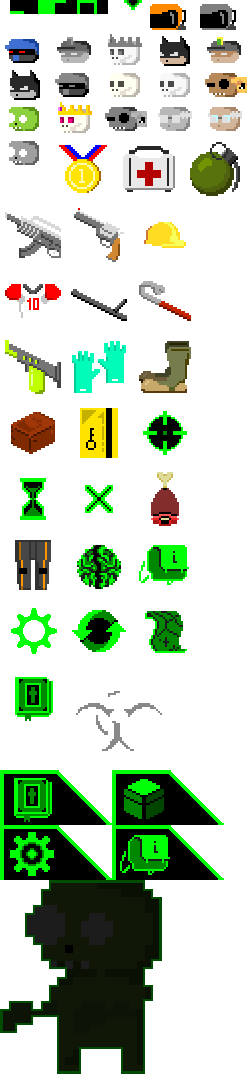
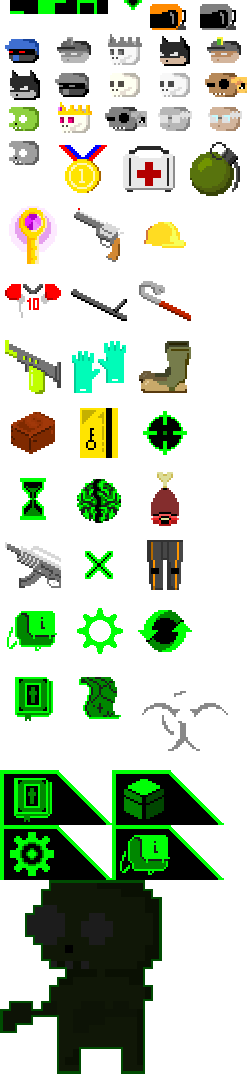
wand and magic fire

diff --git a/server/items/Item.cpp b/server/items/Item.cpp
@@ -657,6 +657,35 @@ Item* Item::create(Type type, AccessLevel accessLevel, unsigned int id)
             };
 
             break;
+
+        case Type::Wand:
+
+            i = new Item();
+            i->schema.CategoryBase = ItemCategory::Base::BaseWeapon;
+            i->schema.CategoryWeapon = ItemCategory::Weapon::WeaponRanged;
+            i->schema.weight = 2;
+            i->schema.minimumDamage = 4;
+            i->schema.maximumDamage = 8;
+            i->schema.effectiveRangeInTiles = 5;
+            i->onUse = [i](Character* user) -> void
+            {
+                // Visualize
+                i->visualizeMagicFire(user);
+
+                // Event
+                Item* ix = i;
+                user->level->sendEventToAllPlayers([ix, user](bit::ServerPacket &packet) {
+                    packet << sf::Uint32(ServerEvent::MagicFire);
+                    packet << user->Body::schema.x;
+                    packet << user->Body::schema.y;
+                    packet << sf::Uint32(ix->schema.type);
+                });
+            };
+            i->onAttack = [i](Character* user, Character* enemy) -> void
+            {
+            };
+
+            break;
     }
 
     i->schema.id = id;
@@ -720,6 +749,9 @@ std::string Item::getTitle(Type type)
 
         case Type::Biosprayer:
             return "Biosprayer";
+
+        case Type::Wand:
+            return "Wand";
     }
 }
 
@@ -779,6 +811,9 @@ std::string Item::getDescription(Type type)
 
         case Type::Biosprayer:
             return "Toxifies enemies";
+
+        case Type::Wand:
+            return "Hades shall prevail";
     }
 }
 
@@ -825,6 +860,9 @@ std::string Item::getSpriteName(Type type)
 
         case Type::Biosprayer:
             return "Biosprayer";
+
+        case Type::Wand:
+            return "Wand";
     }
 }
 
@@ -880,6 +918,9 @@ std::string Item::getIconName(Type type)
 
         case Type::Biosprayer:
             return "Biosprayer";
+
+        case Type::Wand:
+            return "Wand";
     }
 }
 
@@ -890,4 +931,13 @@ void Item::visualizeWeaponFire(Character* user)
     sf::Color e = sf::Color::Black;
     user->level->createLightFlare(user->Body::schema.x, user->Body::schema.y, 0.5f, s, e, 2, 2, 1, 0);
 }
+
+void Item::visualizeMagicFire(Character* user)
+{
+    // Firing flare
+    sf::Color s = sf::Color::Magenta;;
+    sf::Color e = sf::Color::Black;
+    user->level->createLightFlare(user->Body::schema.x, user->Body::schema.y, 0.5f, s, e, 2, 2, 1, 0);
+}
+
 

diff --git a/client/StateGamePlay.cpp b/client/StateGamePlay.cpp
@@ -48,6 +48,7 @@ StateGamePlay::StateGamePlay(bit::StateStack &stack, RogueZombieGame* _game, boo
     explosionSoundId = rogueZombieGame->soundManager->loadSound(resourcePath() + "bit_explosion01.ogg");
     pistolGunshotSoundId = rogueZombieGame->soundManager->loadSound(resourcePath() + "bit_pistol_01.ogg");
     rifleGunshotSoundId = rogueZombieGame->soundManager->loadSound(resourcePath() + "bit_rifle_01.ogg");
+    magicCastSoundId = rogueZombieGame->soundManager->loadSound(resourcePath() + "bit_magiccast_01.ogg");
     doorCloseSoundId = rogueZombieGame->soundManager->loadSound(resourcePath() + "bit_click_01.ogg");
     openBodySoundId = rogueZombieGame->soundManager->loadSound(resourcePath() + "bit_guts_01.ogg");
     closeBodySoundId = rogueZombieGame->soundManager->loadSound(resourcePath() + "bit_guts_02.ogg");
@@ -1391,6 +1392,22 @@ void StateGamePlay::handlePacket_ServerEvent(bit::ServerPacket &packet)
                         break;
                     default:
                         rogueZombieGame->soundManager->play(pistolGunshotSoundId);
+                        break;
+                }
+                break;
+            }
+
+            case ServerEvent::MagicFire:
+            {
+                float posX, posY;
+                Item::Type type;
+                packet >> posX;
+                packet >> posY;
+                bit::NetworkHelper::unpackEnum<sf::Uint32, Item::Type>(packet, type);
+                switch (type)
+                {
+                    default:
+                        rogueZombieGame->soundManager->play(magicCastSoundId);
                         break;
                 }
                 break;

diff --git a/server/items/Item.hpp b/server/items/Item.hpp
@@ -39,6 +39,7 @@ public:
         GoldMedal, // 14
         KeyCard, // 15
         Biosprayer, // 16
+        Wand, // 17
     };
 
     enum CommandType
@@ -202,6 +203,8 @@ public:
     static std::string getIconName(Type type);
 
     static void visualizeWeaponFire(Character* user);
+
+    static void visualizeMagicFire(Character* user);
 
 };
 

diff --git a/server/characters/SkeletonLord.cpp b/server/characters/SkeletonLord.cpp
@@ -16,4 +16,7 @@ void SkeletonLord::load(Level* _level, unsigned int _id, float _x, float _y)
     schema.maxHealth = 30;
     schema.health = 30;
     schema.speed = 3;
+
+    Item* weapon = Item::create(Item::Wand, level->server->getNextItemId());
+    equip(Character::EquipmentSlot::WeaponPrimary, weapon);
 }

diff --git a/client/StateGamePlay.hpp b/client/StateGamePlay.hpp
@@ -82,6 +82,7 @@ public:
     unsigned int explosionSoundId;
     unsigned int pistolGunshotSoundId;
     unsigned int rifleGunshotSoundId;
+    unsigned int magicCastSoundId;
     unsigned int doorCloseSoundId;
     unsigned int openBodySoundId;
     unsigned int closeBodySoundId;

diff --git a/server/Character.cpp b/server/Character.cpp
@@ -1987,7 +1987,7 @@ std::string Character::getTitle(Character::Type type)
         case Character::Type::Skeleton:
             return "Skeleton";
         case Character::Type::SkeletonLord:
-            return "Skeleton Lord";
+            return "Bone Lord";
     }
 }
 

diff --git a/server/ServerEvent.hpp b/server/ServerEvent.hpp
@@ -39,6 +39,7 @@ enum ServerEvent
 
     Explosion,
     Gunfire,
+    MagicFire,
     DoorOpen,
     DoorClose,
     ChestOpen,
